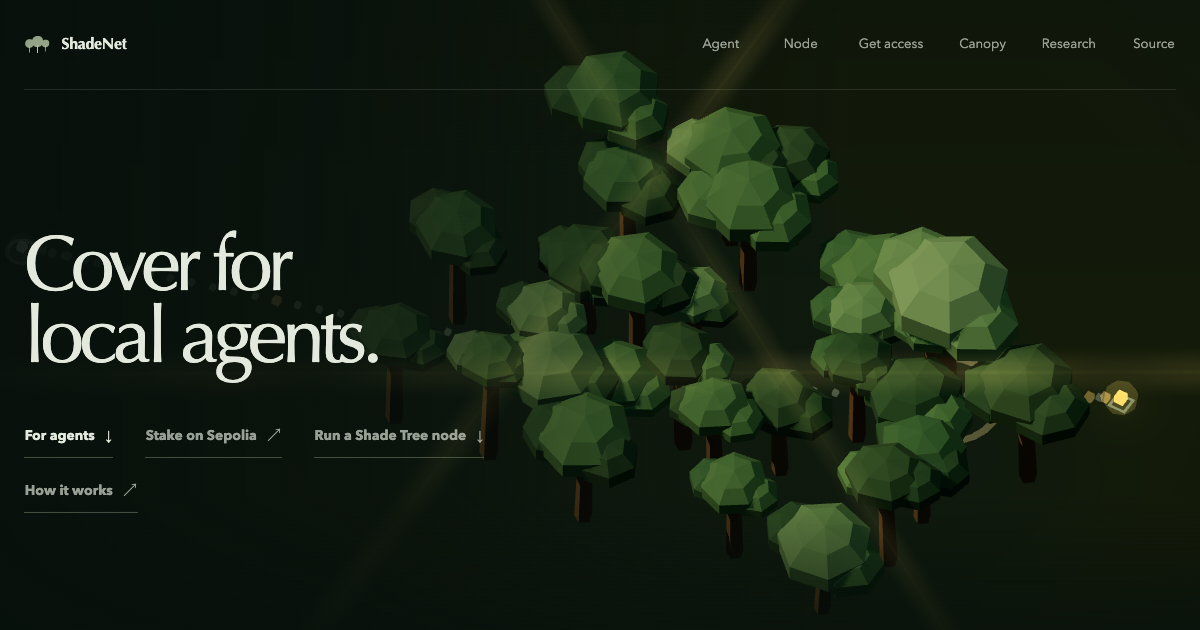
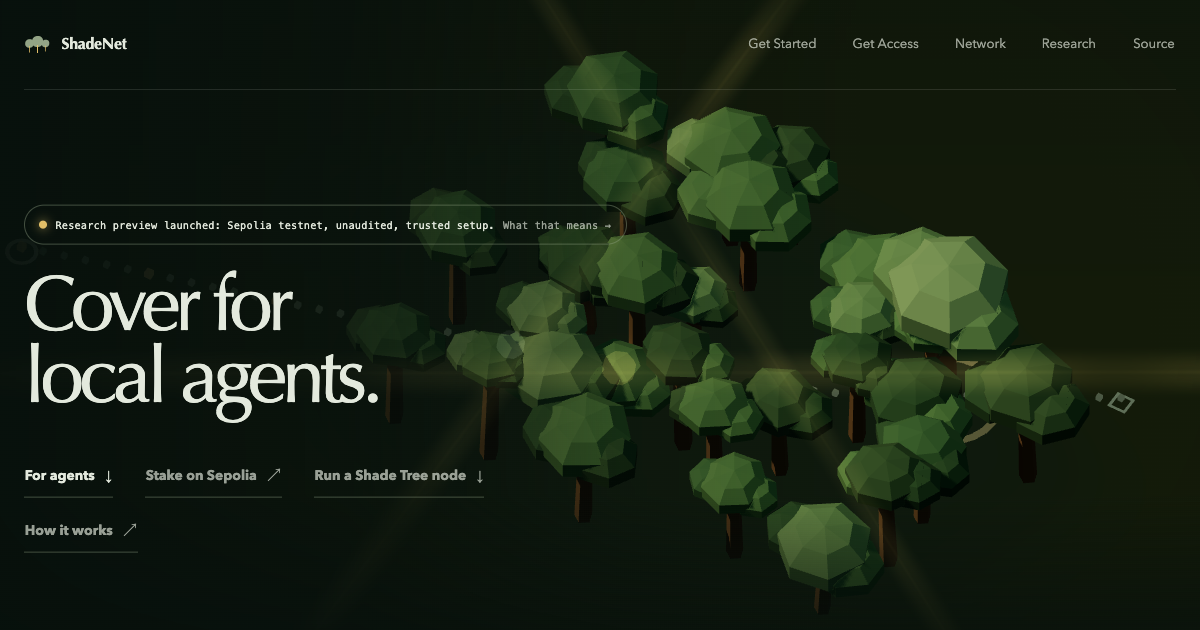
Phone-width pass + re-rendered link-preview card (tasks 45, 42) (#306)
Task 45 — no page scrolls sideways at 390px or 1440px, and the listed
friction fixed where it still reproduced (much of the 10-05 fault list was
already resolved by #270/#282/#296/#299 — the two-row nav, the /agent/ and
/operator/ pages, and the page-bleed layer are gone):
- Research page could scroll sideways (its own <style> left body overflow-x
  visible) and its header links were a 16px-tall single row that overran the
  viewport. Clip body overflow-x; wrap .shade-links and give each link a
  2.75rem tap target.
- The one-line install command scrolled with no cue it did so and was cut at
  the copy button. .agent-install code keeps nowrap+overflow-x:auto and gains
  a right-edge shadow shown only while there is more to the right (a local
  cover riding a pinned shadow).
- Guide commands keep wrapping (pinned by site.selftest) but now break-word,
  not anywhere, so a hyphenated token is not split by choice.
- New overflow.spec.mjs: every public page, at 390px and 1440px, must not
  overflow the document and must keep body overflow-x clipped.

Task 42 — the og tags already point at shadenet.xyz with the right text and
1200x630 size (fixed in #281); only the image was stale (it baked in the
"Canopy" tab, renamed to "Network" in #271). Re-rendered
fig/shade-tree-og.png from the current landing via a reproducible
scripts/render-og.mjs; the kept "Cover for local agents." hero copy and the
live nav now show.
[…]

diff --git a/docs/post/site.css b/docs/post/site.css
@@ -581,13 +581,28 @@ img {
   padding: 1rem 1.1rem;
   font-size: 0.78rem;
   line-height: 1.7;
-  overflow-wrap: anywhere;
+  /* Long multi-part guide commands wrap at their spaces and `&&`; break-word (not anywhere)
+     splits a token only when it cannot fit, so a hyphenated name is not broken by choice. */
+  overflow-wrap: break-word;
   white-space: normal;
 }
 
+/* The one-line release install never wraps (a flag like --proto-redir must not break at its
+   hyphen); it scrolls instead. A right-edge shadow, shown only while there is more to the right
+   (a local cover riding over a pinned shadow), cues that it continues past the copy button. */
 .agent-install code {
   overflow-x: auto;
   white-space: nowrap;
+  overscroll-behavior-x: contain;
+  scrollbar-width: none;
+  background:
+    linear-gradient(90deg, transparent calc(100% - 1.6rem), rgba(16, 34, 25, 0.72)) right center / 1.6rem 100% no-repeat,
+    radial-gradient(farthest-side at 100% 50%, rgba(226, 190, 103, 0.45), transparent) right center / 0.55rem 100% no-repeat;
+  background-attachment: local, scroll;
+}
+
+.agent-install code::-webkit-scrollbar {
+  display: none;
 }
 
 .copy-command {

diff --git a/docs/post/research/index.html b/docs/post/research/index.html
@@ -230,6 +230,7 @@
       max-width: none;
       margin: 0;
       padding: 0 1.5rem 6rem;
+      overflow-x: hidden;
       color: var(--ink);
       background: var(--paper);
       font-family: ui-serif, "Iowan Old Style", "Palatino Linotype", Palatino, Georgia, serif;
@@ -354,9 +355,15 @@
     }
     .shade-links {
       display: flex;
-      gap: 1rem;
+      flex-wrap: wrap;
+      gap: 0.25rem 1rem;
       margin: 1.3rem 0 0;
       letter-spacing: 0.06em;
+    }
+    .shade-links a {
+      display: inline-flex;
+      align-items: center;
+      min-height: 2.75rem;
     }
     .article-kicker {
       margin-bottom: 0.75rem;
